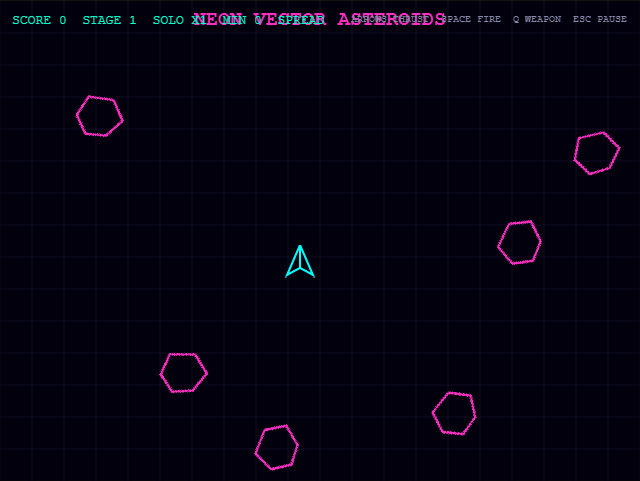
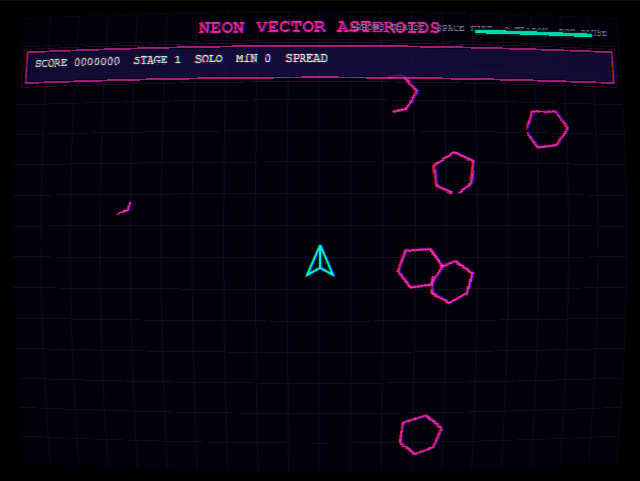
Refresh Overdrive gameplay gallery

diff --git a/README.md b/README.md
@@ -13,21 +13,21 @@
 Capture every image below directly from the current production build. Show procedural runtime graphics only, with no mockups, imported ROM art, or third-party game assets.
 
 <p align="center">
-  <img src="docs/images/screenshots/lobby.png" alt="BiosSystem Neon Arcade live game-selection lobby" width="800">
+  <img src="docs/images/screenshots/lobby.png" alt="BiosSystem Neon Arcade lobby with the 2026 Overdrive presentation enabled" width="800">
 </p>
 <p align="center"><sub>Browse the complete 27-entry cabinet catalog from the live BiosSystem Neon Arcade lobby.</sub></p>
 
 <table>
   <tr>
-    <td width="50%" align="center"><img src="docs/images/screenshots/neon-vector.png" alt="Live Neon Vector gameplay with procedural asteroids"><br><sub>Neon Vector - procedural asteroid combat</sub></td>
-    <td width="50%" align="center"><img src="docs/images/screenshots/tetris-pulse.png" alt="Live Tetris Pulse gameplay"><br><sub>Tetris Pulse - classic grid play</sub></td>
+    <td width="50%" align="center"><img src="docs/images/screenshots/neon-vector.png" alt="Neon Vector running with Overdrive glow, scanlines, and procedural asteroid combat"><br><sub>Neon Vector - Overdrive vector combat</sub></td>
+    <td width="50%" align="center"><img src="docs/images/screenshots/tetris-pulse.png" alt="Tetris Pulse with crisp pixel blocks in the Overdrive CRT presentation"><br><sub>Tetris Pulse - crisp grid play</sub></td>
   </tr>
   <tr>
-    <td width="50%" align="center"><img src="docs/images/screenshots/neon-cyber-caster.png" alt="Live Neon Cyber-Caster raycasting gameplay"><br><sub>Neon Cyber-Caster - generated DDA dungeon</sub></td>
-    <td width="50%" align="center"><img src="docs/images/screenshots/neon-danmaku.png" alt="Live Neon Danmaku projectile pattern"><br><sub>Neon Danmaku - pooled projectile simulation</sub></td>
+    <td width="50%" align="center"><img src="docs/images/screenshots/neon-cyber-caster.png" alt="Neon Cyber-Caster generated DDA dungeon under the Overdrive display pipeline"><br><sub>Neon Cyber-Caster - generated DDA dungeon</sub></td>
+    <td width="50%" align="center"><img src="docs/images/screenshots/neon-danmaku.png" alt="Neon Danmaku with dense pooled projectiles and Overdrive glow"><br><sub>Neon Danmaku - projectile pattern combat</sub></td>
   </tr>
   <tr>
-    <td colspan="2" align="center"><img src="docs/images/screenshots/neon-epoch.png" alt="Live Neon Epoch procedural volumetric world" width="640"><br><sub>Neon Epoch - procedural volumetric world</sub></td>
+    <td colspan="2" align="center"><img src="docs/images/screenshots/neon-epoch.png" alt="Neon Epoch procedural world rendered through the 2026 Overdrive pipeline" width="640"><br><sub>Neon Epoch - procedural world and Overdrive lighting</sub></td>
   </tr>
 </table>
 
